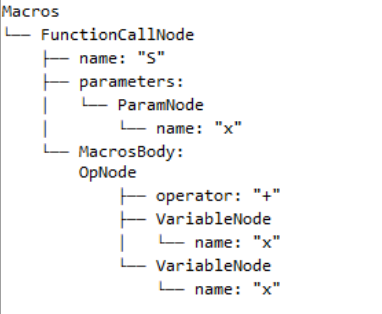
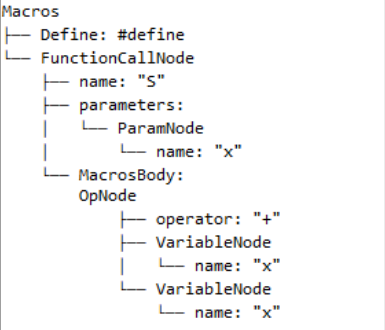
README

Changed region(s): [[0.0, 0.086, 0.7487, 0.9745], [0.0, 0.0, 0.1728, 0.0573]]

diff --git a/tflc_1/ASTFunctions.cs b/tflc_1/ASTFunctions.cs
@@ -45,6 +45,7 @@ namespace tflc_1
             {
                 case "Define":
                     output.AppendText("Macros\n");
+                    output.AppendText("├── Define: #define\n");
                     var children = Get_Children(node);
                     for (int i = 0; i < children.Count; i++)
                     {

diff --git a/README.md b/README.md
@@ -14,17 +14,16 @@
 ## Структура AST:
 ### Описание типов узлов
 1. \<function-call> - объявление макроса;
-2. \<identifier> - объявление идентификатора (имени функции, имени операнда);
-3. \<function-param> - объявление параметров функции;
-4. \<list-param> - параметры функции;
+2. \<name> - объявление идентификатора (имени функции, имени параметра, имени операнда);
+3. \<parameters> - объявление параметров функции;
+4. \<param> - параметры функции;
 5. \<macros body> - объявление тела макроса;
-6. \<expression> - объявление выражения;
-7. \<exspression-body> - объявление множества операндов;
-9. \<term> - объявление операнда;
-10. \<operator> - объявление оператора.
+6. \<op> - объявление выражения;
+7. \<variable> - объявление операнда;
+8. \<operator> - объявление оператора.
 
 ### Рисунок AST для верной строки
-![alt text](AST-1.png)  
+![alt text](AST.png)
 
 ### Формат вывода AST в программе
 #### Для строки: "define One() (1);"
